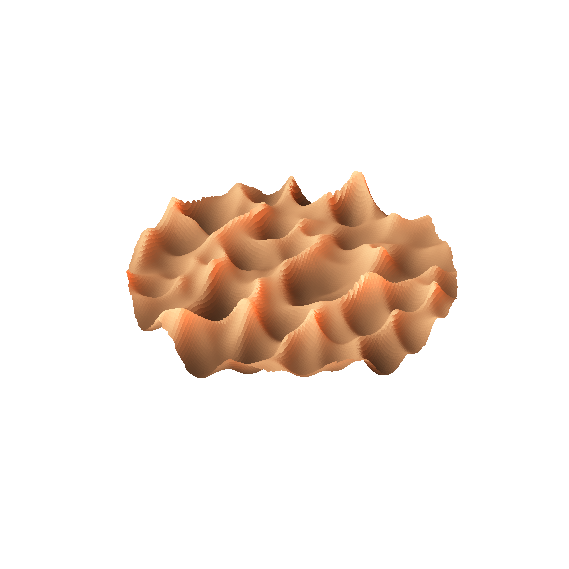
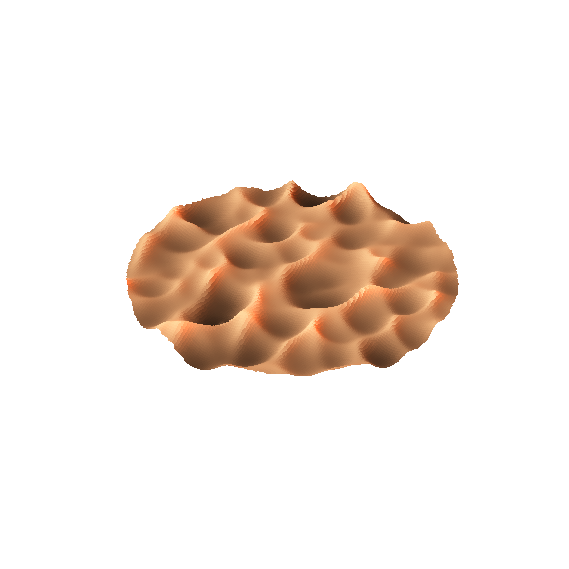
Render 3D previews at true proportions
Default vert_exag for the 3D preview drops from 2.0 to 1.0; README
caption and gallery images updated.

diff --git a/src/choppy_water/preview.py b/src/choppy_water/preview.py
@@ -47,9 +47,9 @@ def save_preview(hf: Heightfield, path: str | Path, vert_exag: float = 1.0) -> P
 
 
 def save_preview_3d(
-    hf: Heightfield, path: str | Path, vert_exag: float = 2.0, elev: float = 35, azim: float = -58
+    hf: Heightfield, path: str | Path, vert_exag: float = 1.0, elev: float = 35, azim: float = -58
 ) -> Path:
-    """Angled 3D view of the surface, so the relief is visible (heights are exaggerated)."""
+    """Angled 3D view of the surface at true proportions (``vert_exag`` scales heights)."""
     plt, light_source = _matplotlib()
     step = max(1, round(hf.z.shape[1] / VIEW_3D_SAMPLES))
     z = hf.z[::step, ::step]

diff --git a/README.md b/README.md
@@ -9,7 +9,7 @@ model and milling parameter lives in one TOML config file.
 | ![calm](docs/images/calm.png) | ![choppy](docs/images/choppy.png) | ![choppy gerstner](docs/images/choppy_gerstner.png) | ![plaque](docs/images/plaque.png) |
 | ![calm, 3D view](docs/images/calm_3d.png) | ![choppy, 3D view](docs/images/choppy_3d.png) | ![choppy gerstner, 3D view](docs/images/choppy_gerstner_3d.png) | ![plaque, 3D view](docs/images/plaque_3d.png) |
 
-*Previews written by the tool: top-down and an angled 3D view (heights exaggerated 2x). The
+*Previews written by the tool: top-down and an angled 3D view (true proportions). The
 configs behind them are the built-in examples; list them with `choppy-water --list-examples`.*
 
 ## Features
